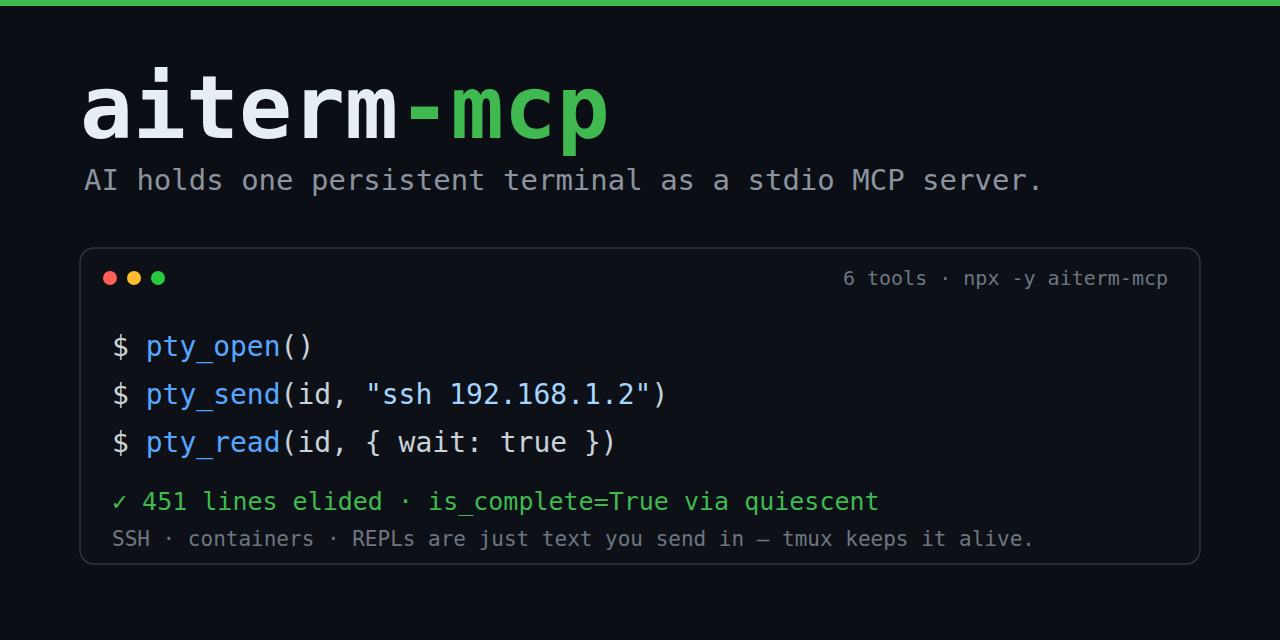
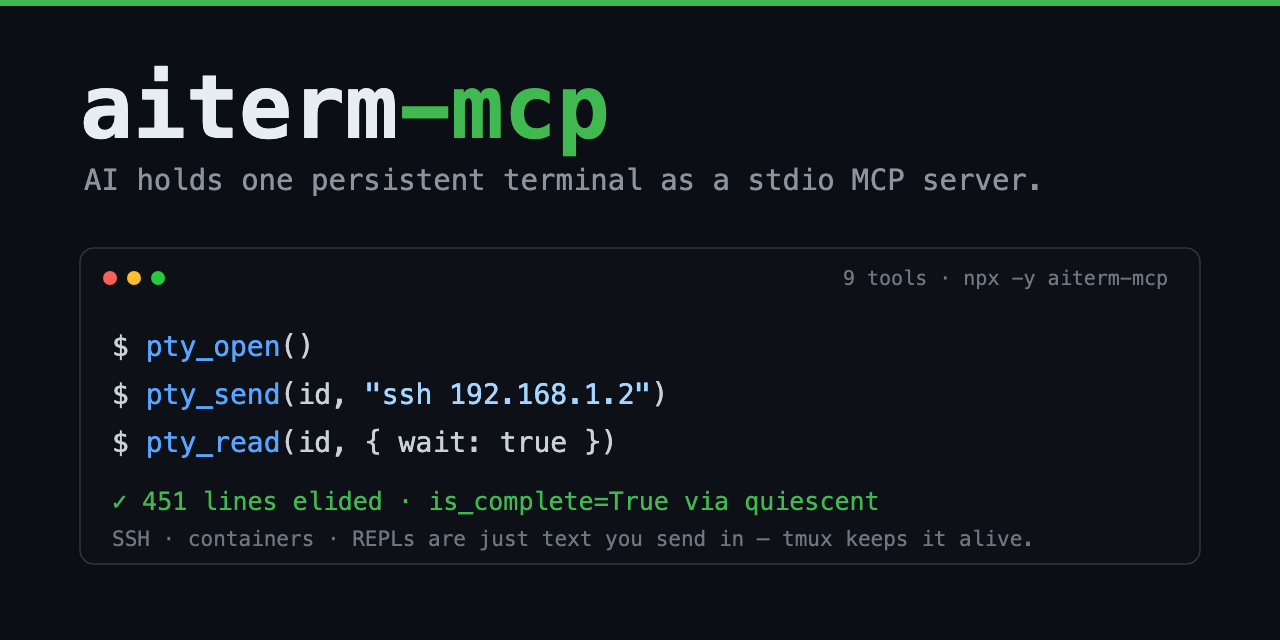
docs: 公開面の "6 tools"→"9 tools" 追従＋メタ/リンク衛生（v0.7.0 エージェント起動3ツール反映）
v0.7.0 で対話エージェント起動3ツール（codex_agent/grok_agent/composer_agent）を足して
計9ツールになったのに、README 本文以外の公開面が "6 tools" 時代のまま取り残されていた。
並列監査（README.md/README.ja.md/docs/メタの4面＋網羅性 critic）で洗い出した stale 面を一掃。

- .github/og.svg/og.png: hero/OG カードの "6 tools" → "9 tools"（両 README 冒頭＆SNS 共有
  カード。本文 mermaid の "9 tools" と自己矛盾していた）。og.png は og.svg から Chrome
  headless で再レンダ（1280x640・"9 tools" 以外は不変）。
- CONTRIBUTING.md: "exactly 6 tools by design" の規範文を撤去（"増やさない方針" は実態と
  矛盾）し9ツール内訳へ。テスト数 92→97。死にリンク docs/ai-terminal-design-plan.md →
  docs/01_design-plan.md（PR テンプレ含め3箇所）。
- .github/pull_request_template.md / ISSUE_TEMPLATE/feature_request.yml: "six-tool" 縛りの
  表現を中立化（PTY 表面は薄く保つ意図は残す）。
- package.json / server.json: description にエージェント起動を追記、keywords に
  agent/codex/grok を追加（npm 発見性）。
- src/index.ts: MCP サーバの wire バージョンが "0.4.0" ハードコードで package.json(0.7.1) と
  乖離していたのを、createRequire で package.json から実行時取得へ。import 属性
  `with{type:json}` は Node 18.0〜18.19 を SyntaxError で壊し、旧 assert は Node 22 で除去
  済み＝実行時 require が唯一 engines ">=18" 全域で動く。build/97 テスト green・dist から
  version=0.7.1 解決を実地確認。
- CHANGELOG.md: 誤配置の [Unreleased] を冒頭へ、フッタの compare リンクを是正（未タグの
  0.5.0-0.7.0 を指す 404 リンクを除去し [0.7.1] は v0.4.1...v0.7.1 へ）、0.7.0 履歴の
  "gpt-5.5" 固定断定を "Codex CLI の既定" へ是正。
- docs/PROMOTION.md: 宣伝ドラフトの "6 tools" → "9 tools"。

diff --git a/src/index.ts b/src/index.ts
@@ -12,8 +12,15 @@ import { McpServer } from "@modelcontextprotocol/sdk/server/mcp.js";
 import { StdioServerTransport } from "@modelcontextprotocol/sdk/server/stdio.js";
 import { z } from "zod";
 import * as core from "./core.js";
+import { createRequire } from "node:module";
 
-const server = new McpServer({ name: "aiterm", version: "0.4.0" });
+// package.json の version を実行時に読み、MCP initialize で配るサーバ版と一致させる。
+// createRequire を使うのは、import 属性 `with { type: "json" }` が Node 18.20+ 限定で
+// engines "node >=18"（18.0〜18.19）を SyntaxError で壊し、旧 `assert` 構文は逆に Node 22 で
+// 除去済み＝どちらの静的構文も 18〜22 全域を満たせないため（実行時 require が唯一全域で動く）。
+const pkg = createRequire(import.meta.url)("../package.json") as { version: string };
+
+const server = new McpServer({ name: "aiterm", version: pkg.version });
 
 type ToolResult = { content: { type: "text"; text: string }[]; isError?: boolean };
 

diff --git a/CONTRIBUTING.md b/CONTRIBUTING.md
@@ -31,18 +31,18 @@ claude mcp add --scope user --transport stdio aiterm -- aiterm-mcp
 
 | File | Responsibility |
 | --- | --- |
-| `src/index.ts` | The MCP surface — exposes the 6 tools (`pty_open`/`pty_send`/`pty_read`/`pty_key`/`pty_close`/`pty_list`) over stdio via `@modelcontextprotocol/sdk` + `zod`. |
+| `src/index.ts` | The MCP surface — exposes 9 tools over stdio via `@modelcontextprotocol/sdk` + `zod`: 6 PTY tools (`pty_open`/`pty_send`/`pty_read`/`pty_key`/`pty_close`/`pty_list`) + 3 agent launcher tools (`codex_agent`/`grok_agent`/`composer_agent`). |
 | `src/core.ts` | All the logic: tmux control, the `resolveTmux()` discovery layer, output reduction, 4-layer completion detection, the destructive-command safety gate, session-name validation, and the WSL bridge. |
 | `src/rtk.ts` | Per-command output reducers (`git status`/`git log`/`grep`/`pytest` and more) — a self-contained reimplementation, no `rtk` binary required. |
 | `prototype/python/` | The original Python MVP. It is the **porting source / verification baseline** — reference only, the shipped artifact is the Node version. |
 
 **The pytest reducer is held byte-exact against upstream rtk 0.42.0.** `src/rtk.ts`'s pytest path is pinned to rtk 0.42.0's output by golden-fixture regression tests (`test/fixtures/pytest/*`, asserted in `test/rtk.test.mjs`). One deliberate divergence is locked in: the `FAILED` summary lines (emitted under `-ra`/`-rf`) **preserve the full failure reason**, whereas rtk 0.42.0 truncates at the first `" - "` — a readability choice, covered by the `proj_ra` fixture. If you touch the pytest reducer, expect to update those goldens, and don't "fix" the intentional `FAILED`-line divergence without discussion.
 
-The design source of truth is `docs/ai-terminal-design-plan.md` — read it before changing reduction, completion detection, or safety behavior.
+The design source of truth is `docs/01_design-plan.md` — read it before changing reduction, completion detection, or safety behavior.
 
 ## Tests
 
-Tests live in `test/` and use the built-in `node:test` runner (`node --test test/*.test.mjs`). Run the whole suite with `npm test`. The current suite is **92 tests**; on POSIX they all run, on native Windows one POSIX-only test (`core-resolve.test.mjs`) is skipped (it exercises the `resolveTmux()`/`AITERM_TMUX` failure path, which Windows bypasses via the WSL bridge).
+Tests live in `test/` and use the built-in `node:test` runner (`node --test test/*.test.mjs`). Run the whole suite with `npm test`. The current suite is **97 tests**; on POSIX they all run, on native Windows one POSIX-only test (`core-resolve.test.mjs`) is skipped (it exercises the `resolveTmux()`/`AITERM_TMUX` failure path, which Windows bypasses via the WSL bridge).
 
 The integration tests that touch real tmux **isolate themselves** so they never pollute your live session (`claude.sock`):
 
@@ -59,14 +59,14 @@ Tests skip gracefully when tmux is absent (they detect it via `tmux -V`, or `wsl
 - **Never pollute stdout.** stdout is the JSON-RPC channel and nothing else. All diagnostics, notes, and warnings go to **stderr** (e.g. the `resolveTmux()` discovery note). A regression test (`smoke.test.mjs`) asserts every stdout line is JSON-RPC — a stray `console.log` will break it.
 - **No silent fallbacks.** When something can't be done, surface a clear error (the macOS work replaced an empty-stderr failure with an explicit "install tmux with brew" diagnostic). Don't paper over failures.
 - **Comments stay bilingual.** The codebase uses Japanese explanatory comments alongside the code (see `src/core.ts`). Match that style — explain the *why* and the non-obvious tradeoffs, in the same voice as the surrounding comments.
-- **Don't widen the tool surface.** There are exactly 6 tools by design. SSH, containers, and REPLs are nested via `pty_send`, not added as tools. New session *kinds* are not new tools.
+- **Keep the PTY surface thin.** The project currently ships 9 tools — 6 PTY primitives (`pty_open`/`pty_send`/`pty_read`/`pty_key`/`pty_close`/`pty_list`) plus 3 agent launchers (`codex_agent`/`grok_agent`/`composer_agent`). SSH, containers, and REPLs are nested via `pty_send`, not added as tools — new session *kinds* reached by nesting are not new tools.
 
 ## Pull requests
 
 1. Branch from `main`.
 2. Make sure `npm test` passes locally **with tmux installed**.
 3. Open a PR against `main`. CI (`.github/workflows/ci.yml`) must pass: it builds and tests on **ubuntu-latest and macos-latest**, each across **Node 18, 20, and 22**. (The native-Windows WSL bridge is not in CI — note in the PR if you verified it manually.)
-4. Keep the change scoped. If you're changing design behavior (completion detection, reduction, safety), update `docs/ai-terminal-design-plan.md` to match.
+4. Keep the change scoped. If you're changing design behavior (completion detection, reduction, safety), update `docs/01_design-plan.md` to match.
 
 Publishing to npm (`npm publish --provenance --access public`) is automated on `v*` tags via the `publish` CI job — contributors don't publish.
 

diff --git a/docs/PROMOTION.md b/docs/PROMOTION.md
@@ -162,8 +162,9 @@ on the SSH-persistence wedge, not "another tmux MCP".
 > token-reduced (per-command reducers for git/grep/pytest), and there's a
 > 4-layer completion detector so the AI knows when a command is actually done.
 >
-> Six tools, no clone/build (`npx -y aiterm-mcp`), works on Linux/WSL2/macOS and
-> native Windows (via a WSL tmux bridge). MIT.
+> Nine tools (6 PTY primitives + 3 interactive agent launchers), no clone/build
+> (`npx -y aiterm-mcp`), works on Linux/WSL2/macOS and native Windows (via a WSL
+> tmux bridge). MIT.
 >
 > Repo: https://github.com/kitepon-rgb/aiterm-mcp
 > Would love feedback on the completion-detection approach (quiescence vs prompt
@@ -186,7 +187,7 @@ on the SSH-persistence wedge, not "another tmux MCP".
    every command after rides the same authenticated session. SSH, docker, REPLs
    are just text you send in, not separate tools.
 3. Reads come back token-reduced (git/grep/pytest reducers), with a 4-layer
-   "is the command done?" detector. `npx -y aiterm-mcp`, 6 tools, MIT,
+   "is the command done?" detector. `npx -y aiterm-mcp`, 9 tools, MIT,
    Linux/WSL2/macOS/Windows. [demo gif]
 4. Repo + one-line Claude Code install 👇 https://github.com/kitepon-rgb/aiterm-mcp
 

diff --git a/.github/pull_request_template.md b/.github/pull_request_template.md
@@ -17,9 +17,9 @@
 
 ## Checklist
 
-- [ ] Scoped change — no unrelated edits; the six-tool surface is unchanged (or the change is justified above)
+- [ ] Scoped change — no unrelated edits; the tool surface is unchanged (or the change is justified above)
 - [ ] No new stdout output (stdout is JSON-RPC only; diagnostics go to stderr)
-- [ ] Docs updated where relevant (README, `CHANGELOG.md`, and `docs/ai-terminal-design-plan.md` for design behavior)
+- [ ] Docs updated where relevant (README, `CHANGELOG.md`, and `docs/01_design-plan.md` for design behavior)
 - [ ] No new runtime dependency (or justified)
 
 <!-- CI runs ubuntu + macos on Node 18/20/22. Publishing is automated on v* tags — contributors don't publish. The native-Windows WSL bridge isn't in CI; note if you verified it manually. -->
